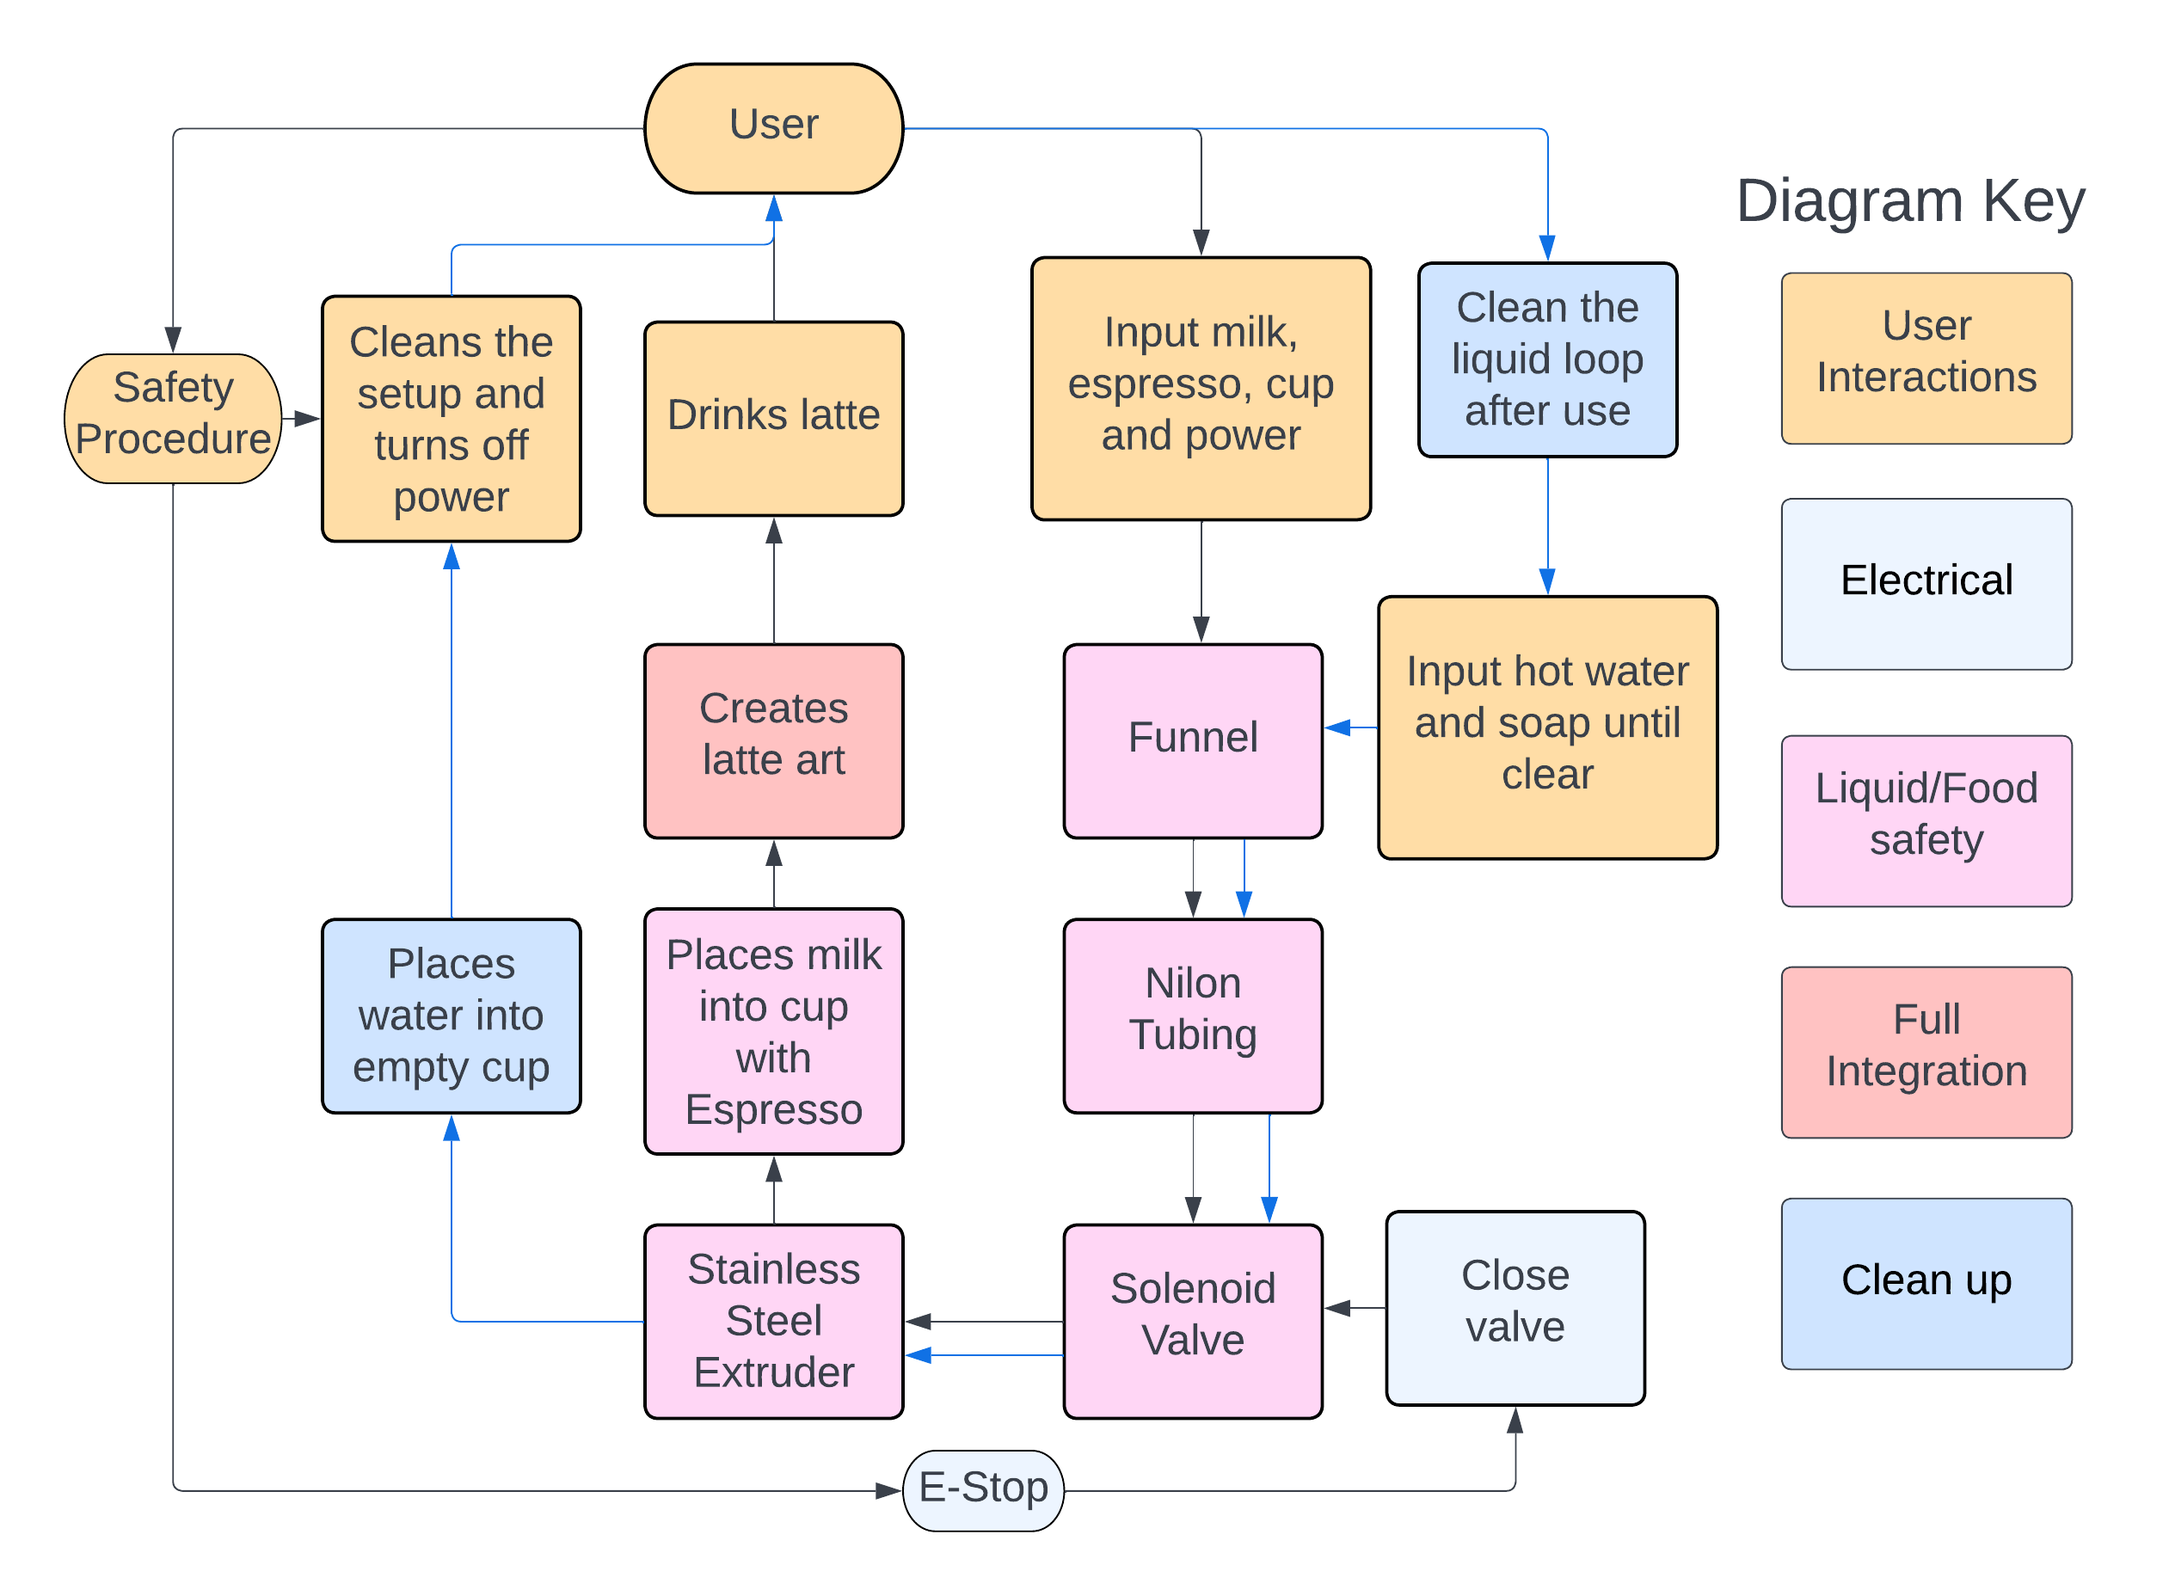
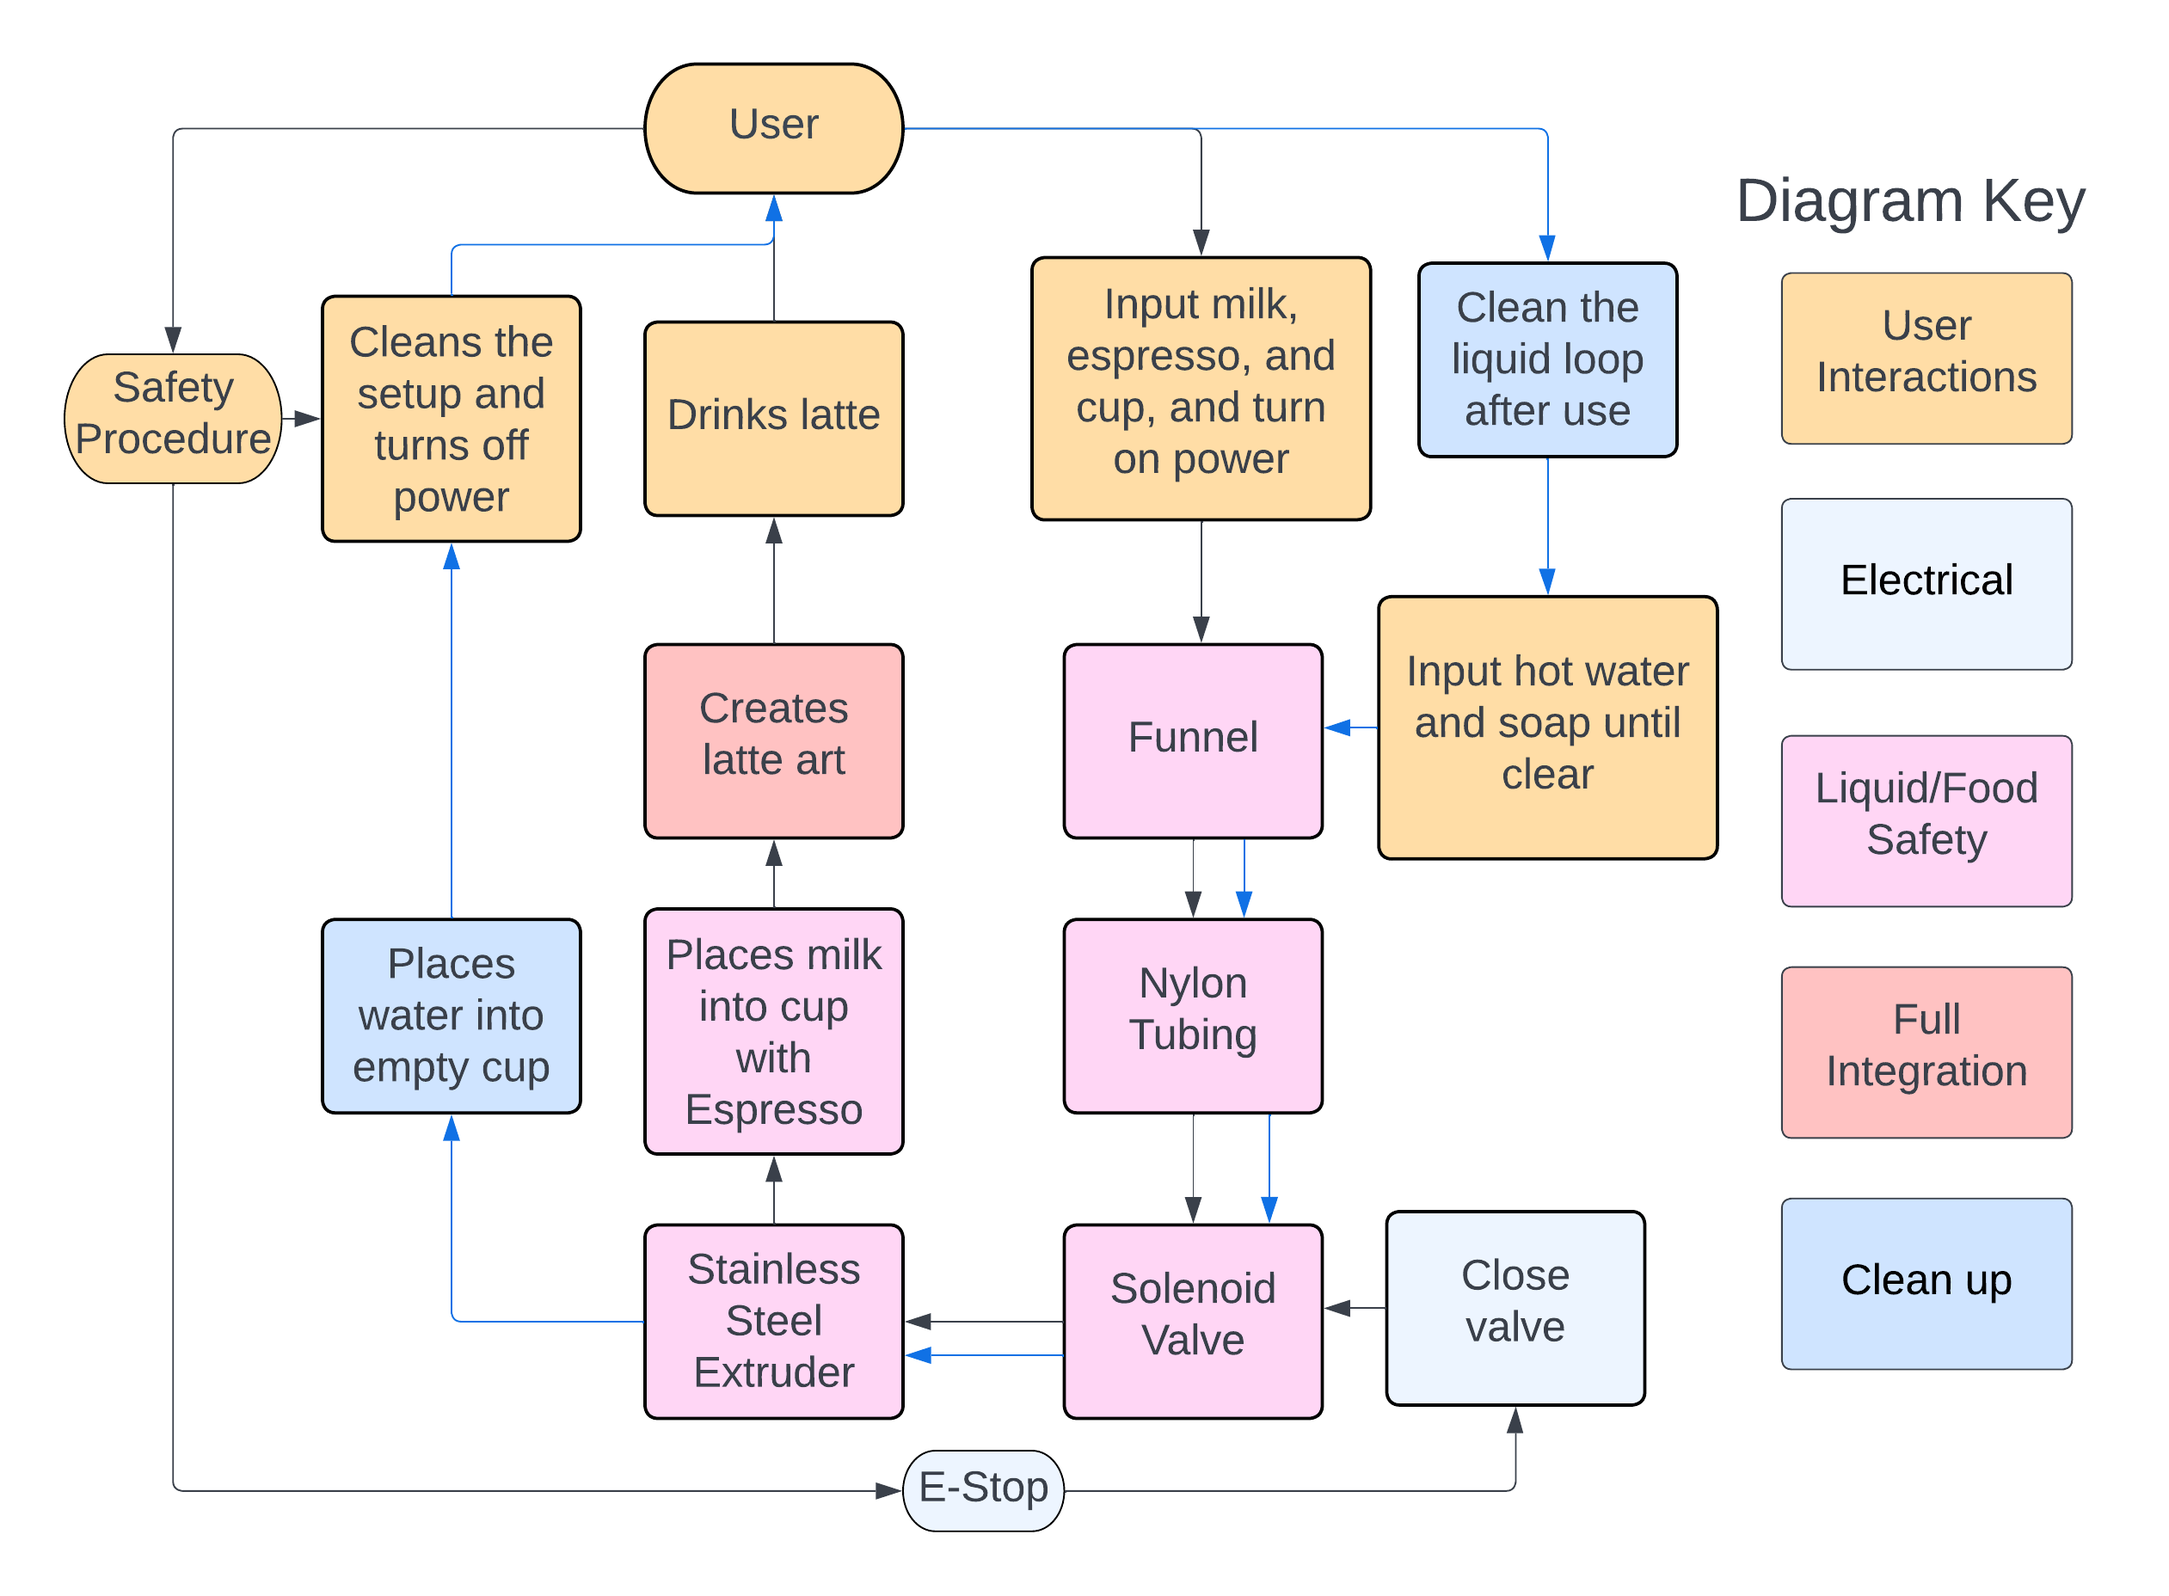
Change photos

Changed region(s): [[0.4948, 0.1875, 0.6186, 0.3125], [0.866, 0.5, 0.9278, 0.5312], [0.5258, 0.5938, 0.5876, 0.625]]

diff --git a/latte-art/ElectricalProgress.html b/latte-art/ElectricalProgress.html
@@ -44,13 +44,31 @@
 							<section class="post">
 								<header class="major">
 									<h1>Electrical Design Process</h1>
-									<p>Aenean ornare velit lacus varius enim ullamcorper proin aliquam<br />
-									facilisis ante sed etiam magna interdum congue. Lorem ipsum dolor<br />
-									amet nullam sed etiam veroeros.</p>
 								</header>
-								<div class="image main"><img src="images/pic01.jpg" alt="" /></div>
-								<p>Donec eget ex magna. Interdum et malesuada fames ac ante ipsum primis in faucibus. Pellentesque venenatis dolor imperdiet dolor mattis sagittis. Praesent rutrum sem diam, vitae egestas enim auctor sit amet. Pellentesque leo mauris, consectetur id ipsum sit amet, fergiat. Pellentesque in mi eu massa lacinia malesuada et a elit. Donec urna ex, lacinia in purus ac, pretium pulvinar mauris. Nunc lorem mauris, fringilla in aliquam at, euismod in lectus. Pellentesque habitant morbi tristique senectus et netus et malesuada fames ac turpis egestas. Curabitur sapien risus, commodo eget turpis at, elementum convallis enim turpis, lorem ipsum dolor sit amet nullam.</p>
-								<p>Lorem ipsum dolor sit amet, consectetur adipiscing elit. Duis dapibus rutrum facilisis. Class aptent taciti sociosqu ad litora torquent per conubia nostra, per inceptos himenaeos. Etiam tristique libero eu nibh porttitor fermentum. Nullam venenatis erat id vehicula viverra. Nunc ultrices eros ut ultricies condimentum. Mauris risus lacus, blandit sit amet venenatis non, bibendum vitae dolor. Nunc lorem mauris, fringilla in aliquam at, euismod in lectus. Pellentesque habitant morbi tristique senectus et netus et malesuada fames ac turpis egestas. In non lorem sit amet elit placerat maximus. Pellentesque aliquam maximus risus. Donec eget ex magna. Interdum et malesuada fames ac ante ipsum primis in faucibus. Pellentesque venenatis dolor imperdiet dolor mattis sagittis. Praesent rutrum sem diam, vitae egestas enim auctor sit amet. Pellentesque leo mauris, consectetur id ipsum.</p>
+								<div id="start">
+									<h2>Electrical Beginnings</h2>
+									<p>We started off with a CNC shield, Arduino Uno, 2 stepper motors, five stepper drivers, and a limit switch. We connected those to a 2-axis gantry that was obtained from a 3D printer. We started off researching several stepper motor libraries to test basic code to control the stepper motors. After a week of research and testing, we noticed that the stepper motors weren’t running, and the stepper drivers were getting extremely hot to the point of smoking.</p>
+									<p>We figured out that the stepper drivers were burning out. We also discovered that some of the capacitors on the CNC shield that connected to the stepper drivers were broken, so we had to switch to another board. The limit switches were also reading inconsistently and inaccurately, which we later found out was because they were wired incorrectly.</p>
+								</div>
+								<div id="increasing">
+									<h2>INCREASING ELECTRICAL SCOPE</h2>
+									<p>After diagnosing these issues, we were able to get 2 stepper motors running on the 2-axis gantry. We then increased the scope of the electrical aspect of the project by increasing the number of stepper motors to 4 (one for x-axis, two for y-axis, one for z-axis). We then decided to include another stepper motor for the tilting mechanism instead of using a servo that was connected to a GPIO pin on the shield, so we planned to get five stepper motors in total running. The current library we were utilizing didn’t support moving five stepper motors simultaneously, so we researched other alternative libraries.</p>
+									<p>We first started with a SyncDriver library, which worked well for running two motors simultaneously, but both motors had to be the same speed so we were unable to draw curved lines. We switched to the MultiDriver library, which allowed us to run the motors in a hockey shape motion by moving only one motor or moving both motors at the same speed. Being able to move only one motor is an important feature, since if the motor steps are small enough, the motors can create curved lines. The MultiDriver library could only run three stepper motors at the same time, but we edited the library so that we could run five simultaneously.</p>
+									<p>The CNC shield we were using could only hold four stepper drivers when we needed five. Additionally, only one driver spot was functioning on the CNC shield, which meant we could only run one motor. This motivated us to transition to the Arduino Mega Ramps 1.4 shield. The Ramps 1.4 shield has a total of five spots to run the stepper motors since it is designed for 3D printers, three for a 3-axis gantry and two for the extruders. We used all five spots for the stepper motors.</p>
+								</div>
+								<div id="testing">
+									<h2>TESTING ADDITIONAL ELECTRONICS</h2>
+									<p>We also started testing the Time-of-Flight sensor, which was meant to measure the height of the liquid to prevent the cup from overflowing. We found that the sensor performed quite well with liquids regardless of color when we tested it with a coffee base then added milk to change the color. However, the values would fluctuate within a range of ~5mm.</p>
+									<p>We learned that the stepper drivers had adjustable potentiometers that helped prevent them from burning out by limiting the amount of current that ran through them, so we adjusted them accordingly such that each stepper motor would only run at 1A. We encountered an issue with the Ramps 1.4 shield, where the steppers wouldn’t move when we ran code for them. They would stay stuck in place and wouldn’t rotate freely, but once we added jumper connectors to the shield, the stepper motors were able to function since power was running properly through them.</p>
+									<p>Next, we tested the solenoid valve. The valve is bidirectional, meaning that though it has a positive and negative side for the wiring, it ultimately doesn't matter which one connects to what. A diode and mosfet were added to facilitate controlling it.</p>
+								</div>
+								<div id="final">
+									<h2>FINAL ASSEMBLY</h2>
+									<p>We then set up everything on the motor shield in an organized way. The X-axis motor was connected to the X pins, one of the Y-axis motors was connected to the Y pins, the second Y-axis motor was connected to the E0 pins, and the Z-axis motor was connected to the Z pins. We then connected the X-axis limit switch on X-min pin, the Y-axis limit switch on Y-max pin, and the Z-axis limit switch on Z-min pin. The solenoid valve was then connected to the corresponding GPIO pin on the shield.</p>
+									<p>Our Time-of-Flight sensor went missing over the break, and though we were able to find a replacement, it was not accurate enough to perform sufficiently enough for our code and ultimately, we decided to scrap it since the fluctuation of 5mm didn’t provide much precision, nor did it add much value to the project at its current state.</p>
+									<p>We then organized the wires by placing cable sleeves over the stepper motor wires, then placing the Arduino Mega with the Ramps 1.4 shield in a box.</p>
+								</div>
+								
 							</section>
 
 					</div>

diff --git a/latte-art/Team.html b/latte-art/Team.html
@@ -44,27 +44,10 @@
 
 						
 								<div class="image main"><img src="images/Team/team.png" alt="" /></div>
-								<h3>Team Members</h3>
-											<ul>
-												<li><a href="#An">An Grocki: Software Engineer</a></li>
-												<li><a href="#Allyson">Allyson Hur: Computer and Electrical Engineer</a></li>
-												<li><a href="#Madie">Madie Tong: Computer and Electrical Engineer</a></li>
-												<li><a href="#Jacob">Jacob Prisament: Mechanical Engineer</a></li>
-												<li><a href="#Lauren">Lauren Nalajala: Mechanical Engineer</a></li>
-											</ul>
-								<div id="team">
-									<div class="row gtr-50 gtr-uniform">
-											<div class="col-2"><span class="image fit"><img src="images/Team/An.jpg" alt="" /></span></div>
-											<div class="col-2"><span class="image fit"><img src="images/Team/Allyson.jpg" alt="" /></span></div>
-											<div class="col-2"><span class="image fit"><img src="images/Team/Madie.jpg" alt="" /></span></div>
-											<div class="col-2"><span class="image fit"><img src="images/Team/Jacob.jpg" alt="" /></span></div>
-											<div class="col-2"><span class="image fit"><img src="images/Team/Madie.jpg" alt="" /></span></div>
-										</div>
-
-								</div>
 								<div id="An">
 									<h3>An Grocki</h3>
-									<p><span class="image left"><img src="images/Team/An.jpg" alt="" /></span>An is a software engineer at Olin College.</p>
+									<p><span class="image left"><img src="images/Team/An.jpg" width=100 height=auto
+										 alt="" /></span>An is a software engineer at Olin College.</p>
 									<br>
 									<br>
 									<br>
@@ -77,15 +60,9 @@
 									<br>
 									<br>
 									<br>
-									<br>
-									<br>
-								</div>
 								<div id="Allyson">
-									<h3>Allyson Hur</h3>
+									<h2>Allyson Hur</h2>
 									<p><span class="image right"><img src="images/Team/Allyson.jpg" alt="" /></span>Allyson is a computer and electrical engineer at Olin College.</p>
-									<br>
-									<br>
-									<br>
 									<br>
 									<br>
 									<br>
@@ -100,11 +77,8 @@
 									<br>
 								</div>
 								<div id="Madie">
-									<h3>Madie Tong</h3>
+									<h2>Madie Tong</h2>
 									<p><span class="image left"><img src="images/Team/Madie.jpg" alt="" /></span>Madie is a computer and electrical engineer at Olin College.</p>
-									<br>
-									<br>
-									<br>
 									<br>
 									<br>
 									<br>
@@ -119,7 +93,7 @@
 									<br>
 								</div>
 								<div id="Jacob">
-									<h3>Jacob Prisament</h3>
+									<h2>Jacob Prisament</h2>
 									<p><span class="image right"><img src="images/Team/Jacob.jpg" alt="" /></span>Jacob is a mechanical engineer at Olin College.</p>
 									<br>
 									<br>
@@ -132,19 +106,10 @@
 									<br>
 									<br>
 									<br>
-									<br>
-									<br>
-									<br>
-									<br>
-							
 								</div>
-								
 								<div id="Lauren">
 									<h3>Lauren Nalajala</h3>
-									<p><span class="image left"><img src="images/pic08.jpg" alt="" /></span>Lauren is a mechanical engineer at Olin College.</p>
-									<br>
-									<br>
-									<br>
+									<p><span class="image left"><img src="images/Team/Lauren.png" alt="" /></span>Lauren is a mechanical engineer at Olin College.</p>
 									<br>
 									<br>
 									<br>

diff --git a/latte-art/System.html b/latte-art/System.html
@@ -46,11 +46,15 @@
 								<header class="major">
 									<h1>System</h1>
 								</header>
+								<p>In order to facilitate integration, we decided to draw out a Systems Map to visualize how each separate aspect of the project interacts with each other.</p>
 								<div class="image main"><img src="images/systems/system.png" alt="" /></div>
-								<p>Add more</p>
-								<h1>Food Safety</h1>
+								<h2>OVERALL SYSTEM</h2>
+								<p> The process begins with the user, who inputs milk and a cup of espresso into the machine, and turns on the power. Power turns on the stepper motors, and when the user activates the software through the GUI, the motors are able to move to the proper positions. Depending on the user’s choices, the GUI will send Python’s G-Code through serial communication to the Arduino, which will control the motors accordingly. Milk begins to pour from the valve/extruder into the cup, and a pattern is drawn as the G-Code moves the motors in a specific pattern. Once the pattern is done, the user can remove their cup and enjoy their drink.</p>
+								<h2>LIQUID SYSTEM: HOW WE ACCOUNT FOR FOOD SAFETY</h2>
 								<span class="image fit"><img src="images/systems/LiquidSystem.png" alt="" /></span>
-								<p>Add More</p>
+								<p>Going into this project, one of the biggest risks that we had to be continually aware of throughout the design process was food safety; anything and everything that interacts with either the espresso or milk must be made out of some sort of material that would preserve the quality of the food and the safety of the drinker. With this in mind, we decided to map out how each system interacts with the liquid.</p>
+								<p>The first interaction with liquid starts with the user, who must input milk into the machine, as well as place a cup of espresso into the cupholder. The input milk is initially stored in the funnel, nylon tubing, and solenoid valve, all of which are made using food-safe materials. When the machine is turned on and the valve is enabled, the liquid will pour through the extruder piece attached to the bottom of the valve, which is made of stainless steel. From there, the milk flows into the cup with the espresso, and after the design is done, the user may remove the cup and enjoy their drink.</p>
+								<p>In general, liquid interactions are kept to a minimum with this system, as any liquid in the machine is enclosed in only 3 parts. To further ensure liquids do not interact with the non-safe aspects of our machine, we have made the design choice to harness all electrical components to the back end of the robot, opposite of where the liquids flow.</p>
 							</section>
 
 					</div>
